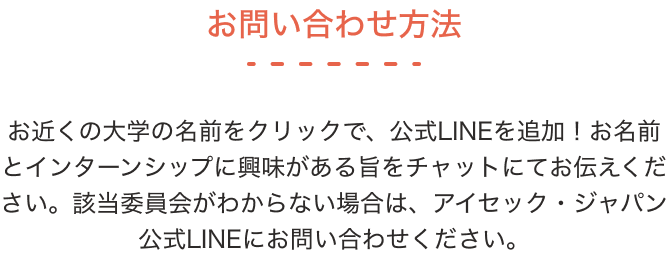
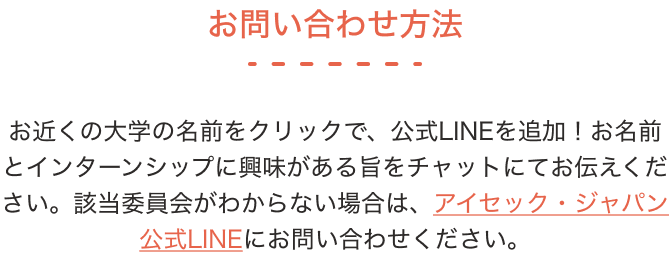
fix: 文字サイズとAJ公式LINEurlの追加

diff --git a/static/lp/outgoing/assets/css/style.scss b/static/lp/outgoing/assets/css/style.scss
@@ -196,6 +196,9 @@ header{
             }
 
         }
+        @media sp{
+            margin-right: 20px;
+        }
     }
 }
 
@@ -965,10 +968,54 @@ header{
 
 .contact{
     margin: 6% 6.38% auto 6.38%;
+    position: relative;
     .text-img{
         margin: auto;
         display: block;
         width: 54%;
+    }
+    .link-wrapper{
+        height: 100%;
+        width: 100%;
+        position: absolute;
+        display: inline-block;
+        .aj-line{
+            position: absolute;
+            display: block;
+            top: -3%;
+            left: 43%;
+            height: 2.7%;
+            width: 17.5%;
+            @include sp{
+                display: none;
+            }
+        }
+        .sp-aj-line1{
+            display: none;
+            @include sp{
+                position: absolute;
+                display: block;
+                top: -18.4%;
+                left: 64%;
+                height: 9.2%;
+                width: 36%;
+                
+            }
+        }
+        .sp-aj-line2{
+            display: none;
+            @include sp{
+                position: absolute;
+                display: block;
+                top: -9.2%;
+                left: 21%;
+                height: 8.8%;
+                width: 16%;
+            }
+        }
+        @include sp{
+            height: 30%;
+        }
     }
     @include sp{
         .text-img{
@@ -984,6 +1031,8 @@ header{
     .contact-container{
         width:100%;
         margin:3% auto;
+        position: relative;
+        z-index: 1;
         .tab{
             display: flex;
             list-style:none;
@@ -991,6 +1040,8 @@ header{
             justify-content: space-between;
             border-bottom:solid 1px rgba(231, 100, 75, 0.5);
             padding: 0;
+           
+            
 
             li{
                 display: table;
@@ -1007,13 +1058,17 @@ header{
                     text-decoration: none;
                     text-align: center;
                     vertical-align: middle;
+                    
 
+                }
+                @media(max-width:768px){
+                    font-size: 15px;
                 }
                 @include sp{
                     height: 30px;
                     width: 30%;
                     a{
-                        font-size: 0.9px;
+                        font-size: 12px;
                     }
                 }
                 
@@ -1087,7 +1142,12 @@ header{
                                 color: #fff;
                             }
                         }
-
+                        @media(max-width:1024px){
+                            font-size: 14px;
+                        }
+                        @media(max-width:768px){
+                            font-size: 12px;
+                        }
                         @include sp{
                             padding: 0;
                             width: 90%;
@@ -1236,7 +1296,7 @@ header{
                 transition: all .3s ease;
                 align-items: center;
                 @include sp{
-                    font-size: 1.6px;
+                    font-size: 11px;
                     padding: 5px 8px 5px 0px;
                     gap: 12px;
                 }

diff --git a/static/lp/outgoing/assets/css/style.css b/static/lp/outgoing/assets/css/style.css
@@ -189,6 +189,11 @@ header .header-container .header-content .header-nav .header-nav-inner a:hover {
     color: #2D2A29;
   }
 }
+@media sp {
+  header .header-container {
+    margin-right: 20px;
+  }
+}
 
 .header-hamburger {
   cursor: pointer;
@@ -955,11 +960,62 @@ header .header-container .header-content .header-nav .header-nav-inner a:hover {
 
 .contact {
   margin: 6% 6.38% auto 6.38%;
+  position: relative;
 }
 .contact .text-img {
   margin: auto;
   display: block;
   width: 54%;
+}
+.contact .link-wrapper {
+  height: 100%;
+  width: 100%;
+  position: absolute;
+  display: inline-block;
+}
+.contact .link-wrapper .aj-line {
+  position: absolute;
+  display: block;
+  top: -3%;
+  left: 43%;
+  height: 2.7%;
+  width: 17.5%;
+}
+@media (max-width: 480px) {
+  .contact .link-wrapper .aj-line {
+    display: none;
+  }
+}
+.contact .link-wrapper .sp-aj-line1 {
+  display: none;
+}
+@media (max-width: 480px) {
+  .contact .link-wrapper .sp-aj-line1 {
+    position: absolute;
+    display: block;
+    top: -18.4%;
+    left: 64%;
+    height: 9.2%;
+    width: 36%;
+  }
+}
+.contact .link-wrapper .sp-aj-line2 {
+  display: none;
+}
+@media (max-width: 480px) {
+  .contact .link-wrapper .sp-aj-line2 {
+    position: absolute;
+    display: block;
+    top: -9.2%;
+    left: 21%;
+    height: 8.8%;
+    width: 16%;
+  }
+}
+@media (max-width: 480px) {
+  .contact .link-wrapper {
+    height: 30%;
+  }
 }
 @media (max-width: 480px) {
   .contact .text-img {
@@ -974,6 +1030,8 @@ header .header-container .header-content .header-nav .header-nav-inner a:hover {
 .contact .contact-container {
   width: 100%;
   margin: 3% auto;
+  position: relative;
+  z-index: 1;
 }
 .contact .contact-container .tab {
   display: flex;
@@ -1000,13 +1058,18 @@ header .header-container .header-content .header-nav .header-nav-inner a:hover {
   text-align: center;
   vertical-align: middle;
 }
+@media (max-width: 768px) {
+  .contact .contact-container .tab li {
+    font-size: 15px;
+  }
+}
 @media (max-width: 480px) {
   .contact .contact-container .tab li {
     height: 30px;
     width: 30%;
   }
   .contact .contact-container .tab li a {
-    font-size: 0.9px;
+    font-size: 12px;
   }
 }
 .contact .contact-container .tab .active a {
@@ -1077,6 +1140,16 @@ header .header-container .header-content .header-nav .header-nav-inner a:hover {
 }
 .contact .contact-container .area ul li a:hover p {
   color: #fff;
+}
+@media (max-width: 1024px) {
+  .contact .contact-container .area ul li a {
+    font-size: 14px;
+  }
+}
+@media (max-width: 768px) {
+  .contact .contact-container .area ul li a {
+    font-size: 12px;
+  }
 }
 @media (max-width: 480px) {
   .contact .contact-container .area ul li a {
@@ -1221,7 +1294,7 @@ header .header-container .header-content .header-nav .header-nav-inner a:hover {
 }
 @media (max-width: 480px) {
   .faq-container .faq-item .content-q {
-    font-size: 1.6px;
+    font-size: 11px;
     padding: 5px 8px 5px 0px;
     gap: 12px;
   }

diff --git a/static/lp/outgoing/index.html b/static/lp/outgoing/index.html
@@ -259,6 +259,11 @@
             <div id="contact" class="contact">
                 <img src="./assets/img/text_contact.png" alt="お問い合わせ方法" class="text-img">
                 <img src="./assets/img/sp_text_contact.png" alt="お問い合わせ方法" class="sp-text-img">
+                <div class="link-wrapper">
+                    <a class="aj-line" href="https://liff.line.me/1645278921-kWRPP32q/?accountId=712nyzph" target="_blank"> </a>
+                    <a class="sp-aj-line1" href="https://liff.line.me/1645278921-kWRPP32q/?accountId=712nyzph" target="_blank"> </a>
+                    <a class="sp-aj-line2" href="https://liff.line.me/1645278921-kWRPP32q/?accountId=712nyzph" target="_blank"> </a>
+                </div>
                 <div class="contact-container">
                     <ul class="tab">
                         <li><a href="#kanto" class="selected">関 東 支 部</a></li>
@@ -299,7 +304,7 @@
                             <li><a href="https://line.me/R/ti/p/@708gxlbe?from=page&accountId=708gxlbe" target="_blank"><p>南山大学委員会<br><small>南山大学</small></p></a></li>
                             <li class="apu"><a href="https://line.me/R/ti/p/@970vggps?from=page&accountId=970vggps" target="_blank"><p>立命館アジア太平洋大学委員会<br><small>立命館アジア太平洋大学</small></p></a></li>
                             <li><a href="https://line.me/R/ti/p/@554vrxbp" target="_blank"><p>広島委員会<br><small>広島大学</small></p></a></li>
-                            <li><a class="none-link" target="_blank"><p>北海道委員会<br><small>大学</small></p></a></li>
+                            <li><a class="none-link" target="_blank"><p>北海道委員会<br><small>北海道大学</small></p></a></li>
                         </ul>
                     <!--/area--></div>
                         
